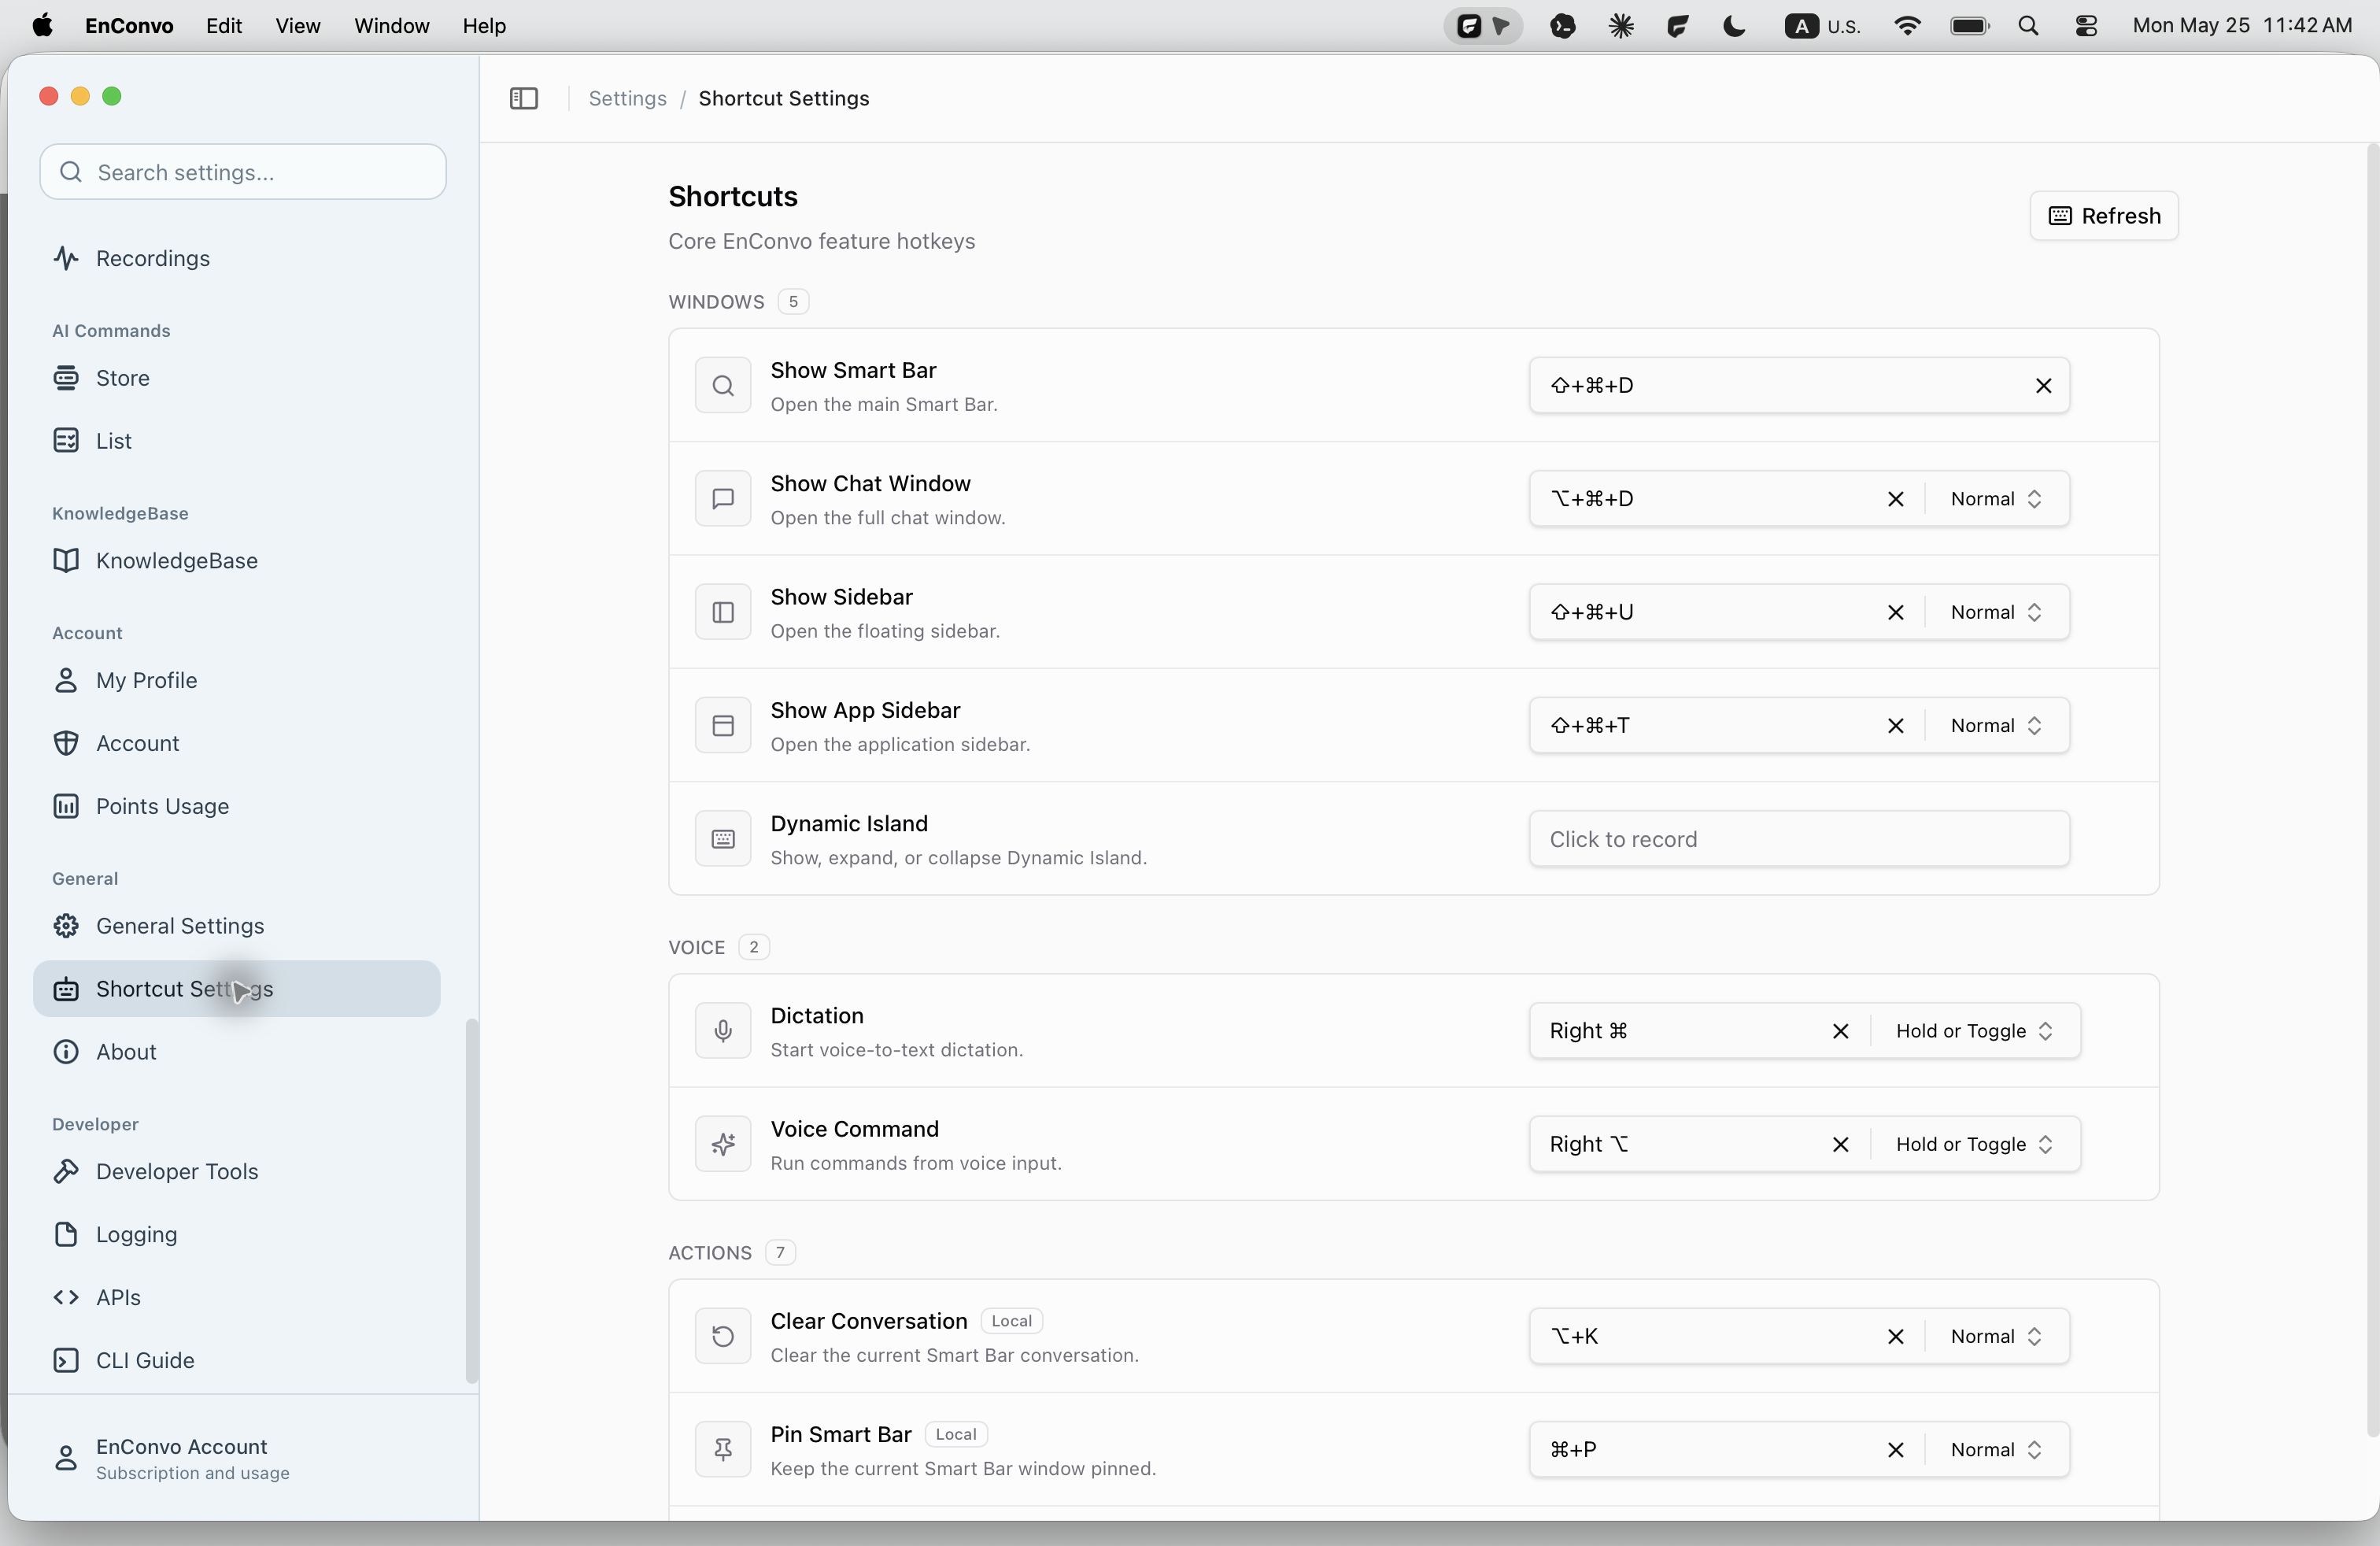
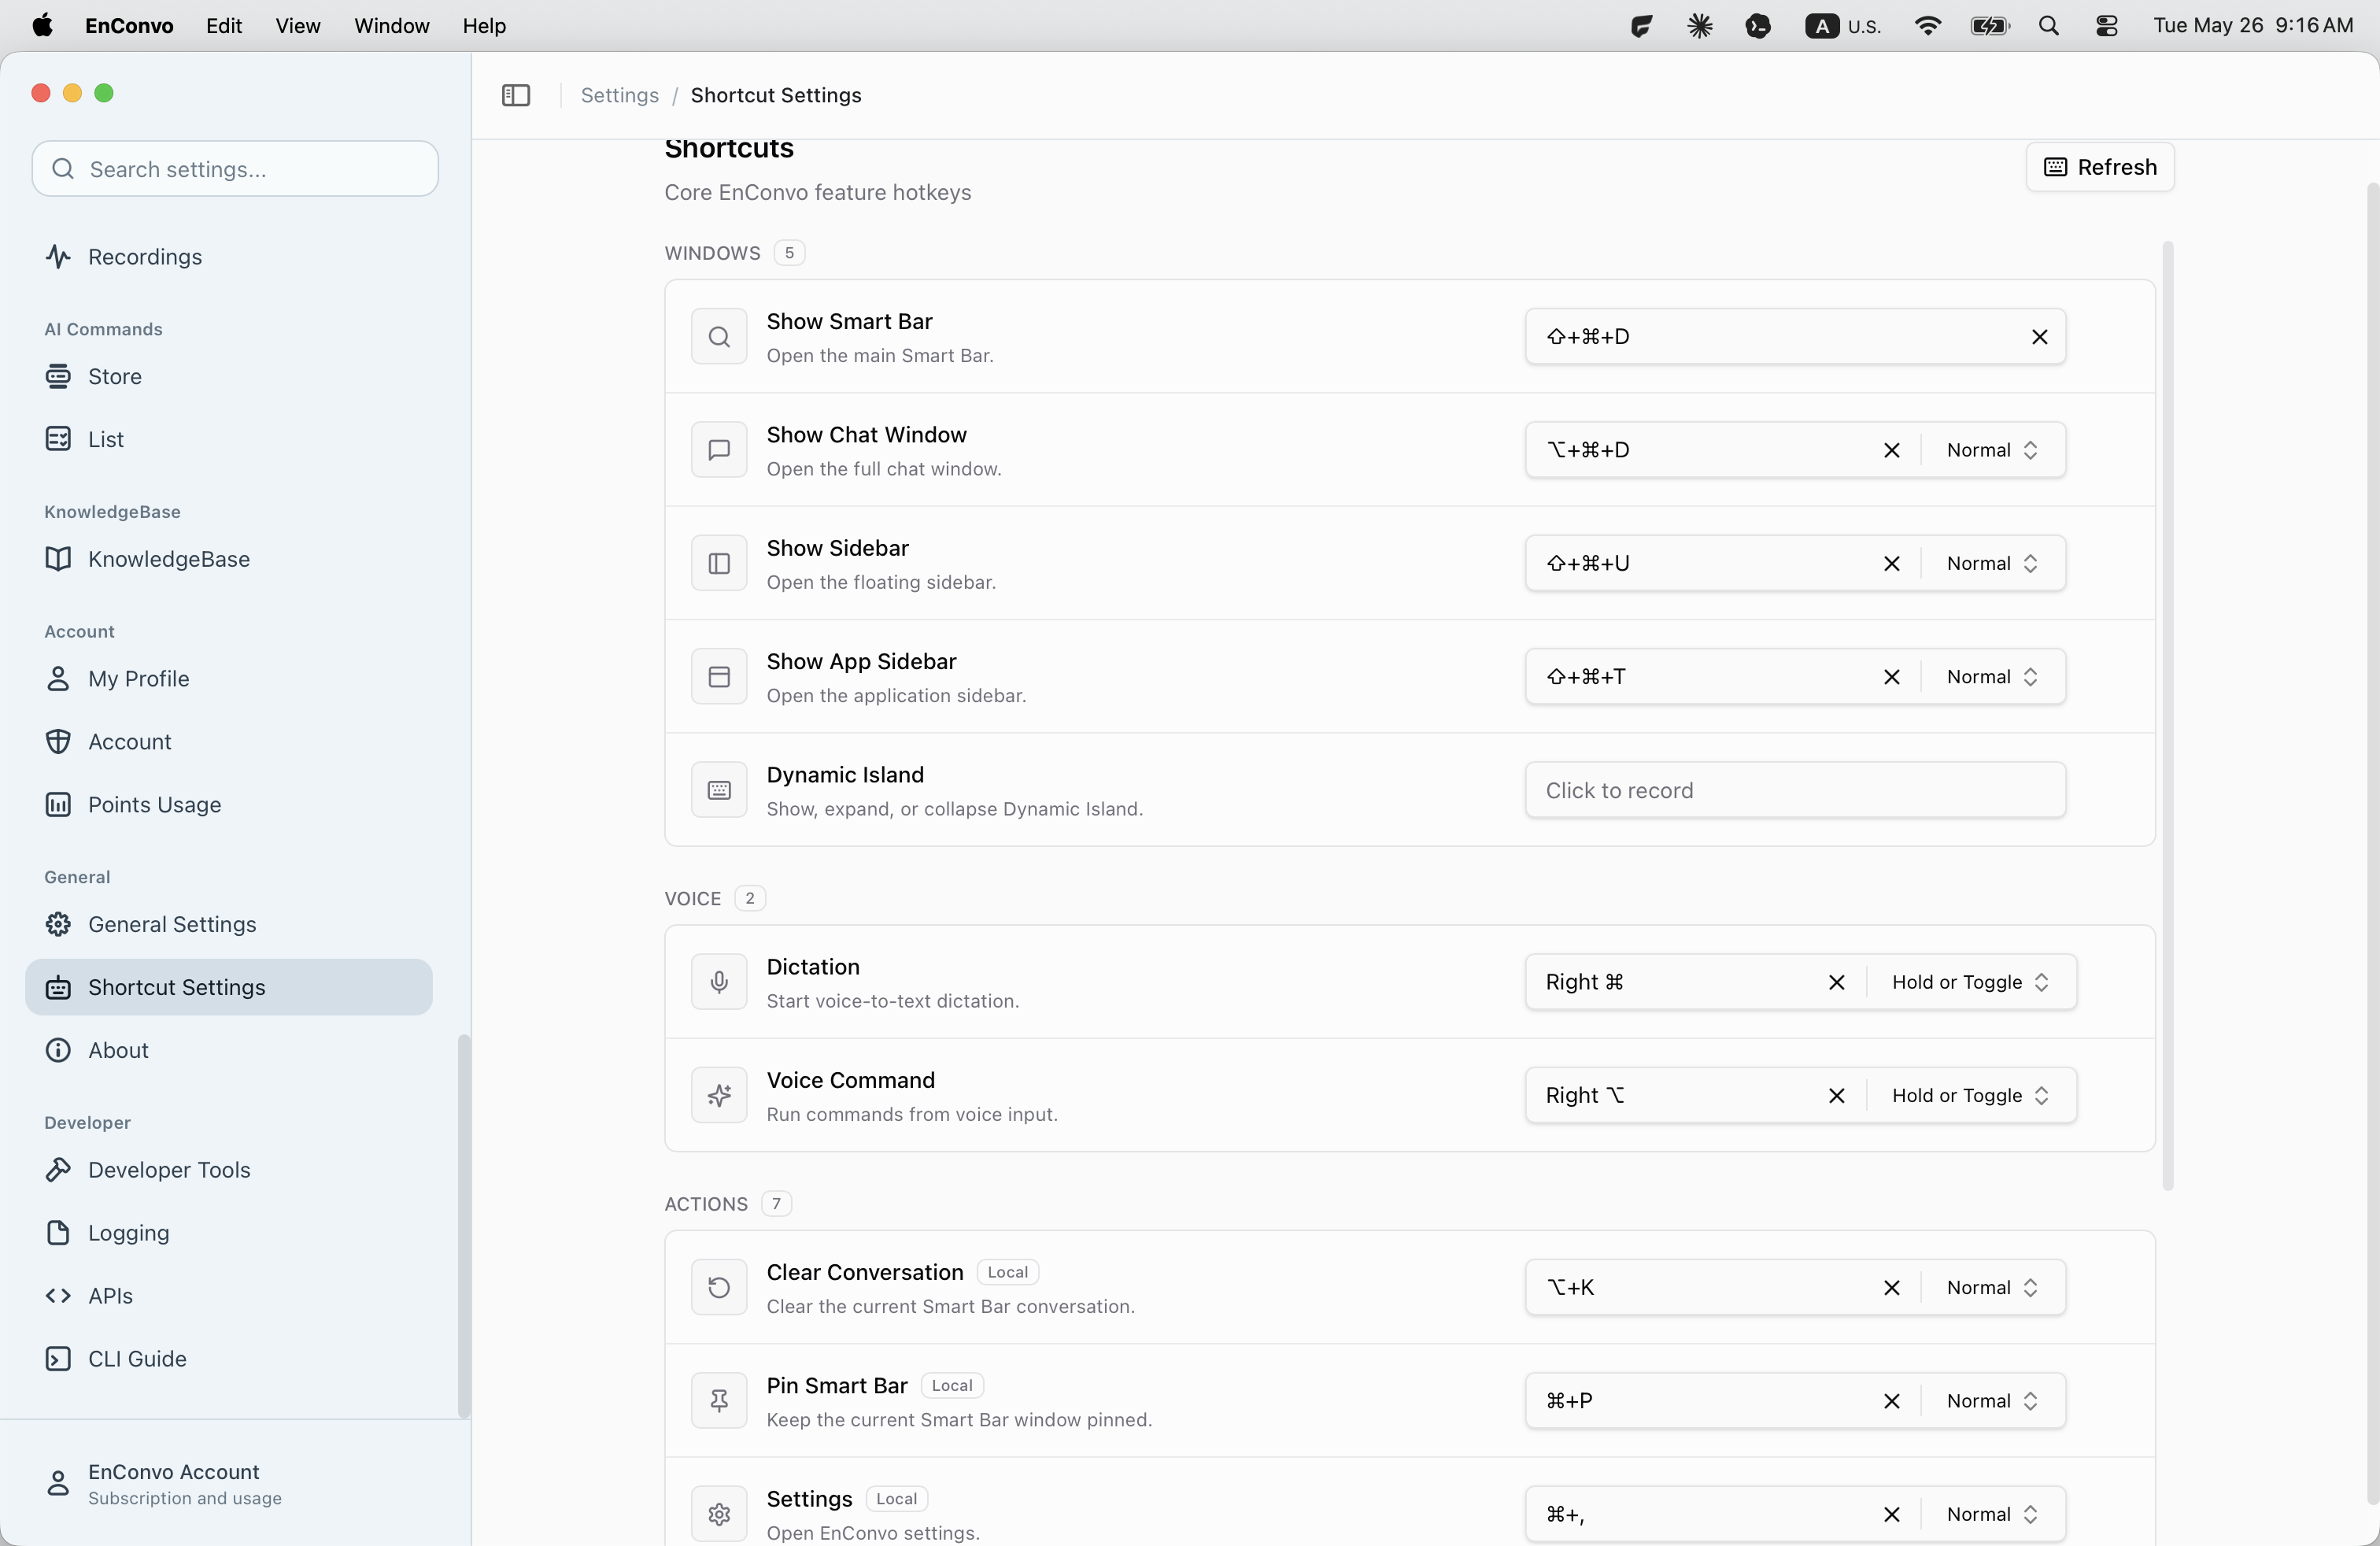
Document default shortcut settings

diff --git a/index.html b/index.html
@@ -263,6 +263,40 @@
       line-height: 1.55;
       margin: 5px 0;
     }
+    .shortcut-groups {
+      display: grid;
+      gap: 18px;
+      margin: 18px 0 6px;
+    }
+    .shortcut-group h5 {
+      margin: 0 0 8px;
+      color: #475569;
+      font-size: 13px;
+      font-weight: 780;
+      letter-spacing: .02em;
+      text-transform: uppercase;
+    }
+    .shortcut-table {
+      width: 100%;
+      border-collapse: collapse;
+      border-top: 1px solid var(--border);
+      font-size: 14px;
+    }
+    .shortcut-table th,
+    .shortcut-table td {
+      padding: 9px 10px;
+      border-bottom: 1px solid var(--border);
+      text-align: left;
+      vertical-align: top;
+    }
+    .shortcut-table th {
+      color: #64748b;
+      font-size: 12px;
+      font-weight: 760;
+      text-transform: uppercase;
+    }
+    .shortcut-table td:first-child { font-weight: 700; color: #1f2937; }
+    .shortcut-table code { white-space: nowrap; }
     .toc strong { display: block; margin-bottom: 10px; font-size: 13px; }
     .toc a { display: block; padding: 5px 0 5px 10px; color: var(--muted); font-size: 12.75px; }
     code { padding: .13rem .3rem; border-radius: 4px; background: var(--soft); font: .9em ui-monospace, SFMono-Regular, Menlo, monospace; }
@@ -1374,7 +1408,39 @@
         intro: "General settings cover app-wide behavior, shortcuts, and version information.",
         pages: [
           ["43-general-settings.png", "General Settings", "Configure baseline EnConvo app behavior.", "Use this page for preferences that affect the whole app, then verify the behavior in normal use before changing more specific agent settings.", "General"],
-          ["44-shortcut-settings.png", "Shortcut Settings", "Configure keyboard shortcuts and trigger bindings.", "Use this page to avoid conflicts with macOS, browsers, editors, or other utilities. Test new shortcuts immediately after changing them.", "Shortcut"],
+          ["44-shortcut-settings.png", "Shortcut Settings", "Configure keyboard shortcuts and trigger bindings.", "Use this page to review EnConvo's default hotkeys, avoid conflicts with macOS, browsers, editors, or other utilities, and test new shortcuts immediately after changing them.", "Shortcut", {
+            shortcutGroups: [
+              {
+                title: "Windows",
+                items: [
+                  ["Show Smart Bar", "Open the main Smart Bar.", "⇧+⌘+D", ""],
+                  ["Show Chat Window", "Open the full chat window.", "⌥+⌘+D", "Normal"],
+                  ["Show Sidebar", "Open the floating sidebar.", "⇧+⌘+U", "Normal"],
+                  ["Show App Sidebar", "Open the application sidebar.", "⇧+⌘+T", "Normal"],
+                  ["Dynamic Island", "Show, expand, or collapse Dynamic Island.", "Not assigned", ""]
+                ]
+              },
+              {
+                title: "Voice",
+                items: [
+                  ["Dictation", "Start voice-to-text dictation.", "Right ⌘", "Hold or Toggle"],
+                  ["Voice Command", "Run commands from voice input.", "Right ⌥", "Hold or Toggle"]
+                ]
+              },
+              {
+                title: "Actions",
+                items: [
+                  ["Clear Conversation", "Clear the current Smart Bar conversation.", "⌥+K", "Normal"],
+                  ["Pin Smart Bar", "Keep the current Smart Bar window pinned.", "⌘+P", "Normal"],
+                  ["Settings", "Open EnConvo settings.", "⌘+,", "Normal"],
+                  ["Screen Doodle", "Toggle the full-screen doodle overlay.", "⇧+⌘+7", ""],
+                  ["Screenshot", "Capture a selected screen area.", "⌃+S", "Normal"],
+                  ["Translate", "Translate selected text or input.", "⌥+D", "Normal"],
+                  ["Silent OCR", "Capture an area and copy OCR text to the clipboard.", "⌥+S", "Normal"]
+                ]
+              }
+            ]
+          }],
           ["45-about.png", "About", "Check version, build, and product information.", "Use this page when reporting bugs, comparing installed versions, or confirming that a guide matches the EnConvo build you are using.", "General"]
         ]
       },
@@ -1818,14 +1884,35 @@
     }
 
     function renderPageCard(section, page) {
-      const [src, title, summary, guidance, tag] = page;
+      const [src, title, summary, guidance, tag, details] = page;
       const id = `${section.id}-${slug(title)}`;
       return `<section class="page-card" id="${id}">
           <h4>${title}</h4>
           <p>${summary}</p>
           <p>${guidance}</p>
+          ${renderPageDetails(details)}
           ${shot(src, title)}
         </section>`;
+    }
+
+    function renderPageDetails(details) {
+      if (!details || !details.shortcutGroups) return "";
+      const groups = details.shortcutGroups.map(group => {
+        const rows = group.items.map(item => {
+          const [name, description, shortcut, mode] = item;
+          const modeCell = mode ? mode : "—";
+          const shortcutCell = shortcut === "Not assigned" ? shortcut : `<code>${shortcut}</code>`;
+          return `<tr><td>${name}</td><td>${description}</td><td>${shortcutCell}</td><td>${modeCell}</td></tr>`;
+        }).join("");
+        return `<div class="shortcut-group">
+          <h5>${group.title} (${group.items.length})</h5>
+          <table class="shortcut-table">
+            <thead><tr><th>Command</th><th>What It Does</th><th>Default Shortcut</th><th>Trigger Mode</th></tr></thead>
+            <tbody>${rows}</tbody>
+          </table>
+        </div>`;
+      }).join("");
+      return `<div class="shortcut-groups">${groups}</div>`;
     }
 
     function renderDeepCard(section, item, heading = "h4") {
@@ -1892,7 +1979,7 @@
       guide.innerHTML = topSections.map(section => {
         const children = sections.filter(child => child.parent === section.id);
         const cards = section.pages.map(page => {
-          const [src, title, summary, guidance, tag] = page;
+          const [src, title, summary, guidance, tag, details] = page;
           const id = `${section.id}-${slug(title)}`;
           const pageChildren = children.filter(child => child.parentPage === title);
           const embeddedIntros = pageChildren
@@ -1907,6 +1994,7 @@
             <p>${summary}</p>
             <p>${guidance}</p>
             ${embeddedIntros}
+            ${renderPageDetails(details)}
             ${shot(src, title)}
             ${nested}
           </section>`;

diff --git a/skills/enconvo-how-to/references/how-to.md b/skills/enconvo-how-to/references/how-to.md
@@ -221,3 +221,29 @@ Global path: `Credential Management > Credential Management`.
 - Logs: `Developer > Logging`. Logs may include paths, account data, request metadata, or provider details. Source: `#developer-logging`.
 - API settings: `Developer > APIs`. Keep endpoints, keys, and tokens private. Source: `#developer-apis`.
 - CLI instructions: `Developer > CLI Guide`. Source: `#developer-cli-guide`.
+
+## Default Shortcut Settings
+
+Path: `General > Shortcut Settings`.
+
+Use this list when the user asks for EnConvo's default shortcuts. Source: `#general-shortcut-settings`.
+
+Windows:
+- Show Smart Bar: `⇧+⌘+D`. Opens the main Smart Bar.
+- Show Chat Window: `⌥+⌘+D`, trigger mode `Normal`. Opens the full chat window.
+- Show Sidebar: `⇧+⌘+U`, trigger mode `Normal`. Opens the floating sidebar.
+- Show App Sidebar: `⇧+⌘+T`, trigger mode `Normal`. Opens the application sidebar.
+- Dynamic Island: not assigned by default. Shows, expands, or collapses Dynamic Island.
+
+Voice:
+- Dictation: `Right ⌘`, trigger mode `Hold or Toggle`. Starts voice-to-text dictation.
+- Voice Command: `Right ⌥`, trigger mode `Hold or Toggle`. Runs commands from voice input.
+
+Actions:
+- Clear Conversation: `⌥+K`, trigger mode `Normal`. Clears the current Smart Bar conversation.
+- Pin Smart Bar: `⌘+P`, trigger mode `Normal`. Keeps the current Smart Bar window pinned.
+- Settings: `⌘+,`, trigger mode `Normal`. Opens EnConvo settings.
+- Screen Doodle: `⇧+⌘+7`. Toggles the full-screen doodle overlay.
+- Screenshot: `⌃+S`, trigger mode `Normal`. Captures a selected screen area.
+- Translate: `⌥+D`, trigger mode `Normal`. Translates selected text or input.
+- Silent OCR: `⌥+S`, trigger mode `Normal`. Captures an area and copies OCR text to the clipboard.